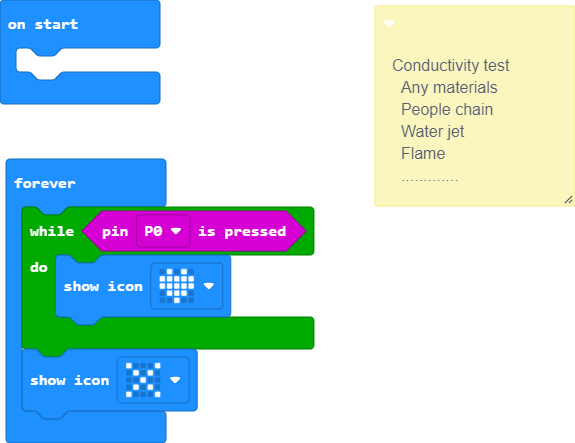
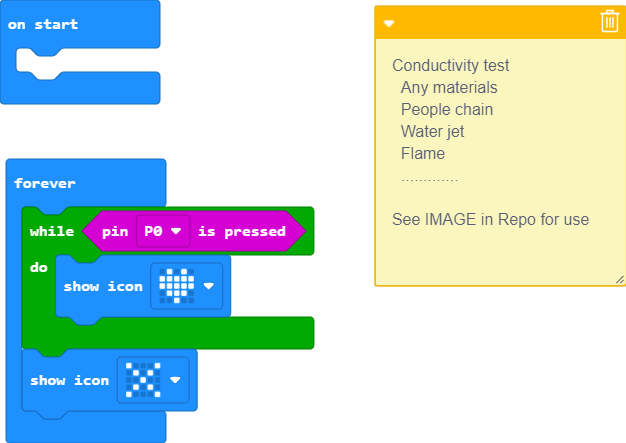
Update main.blocks, main.ts

diff --git a/main.ts b/main.ts
@@ -10,6 +10,8 @@
  *   Flame
  * 
  *   .............
+ * 
+ * See IMAGE in Repo for use
  */
 basic.forever(function () {
     while (input.pinIsPressed(TouchPin.P0)) {
